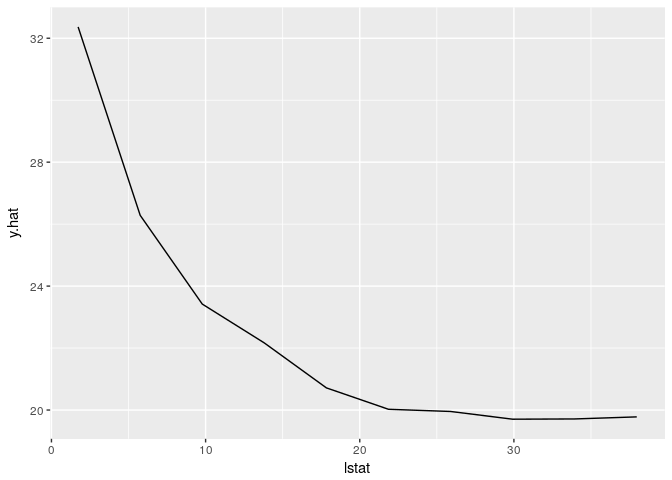
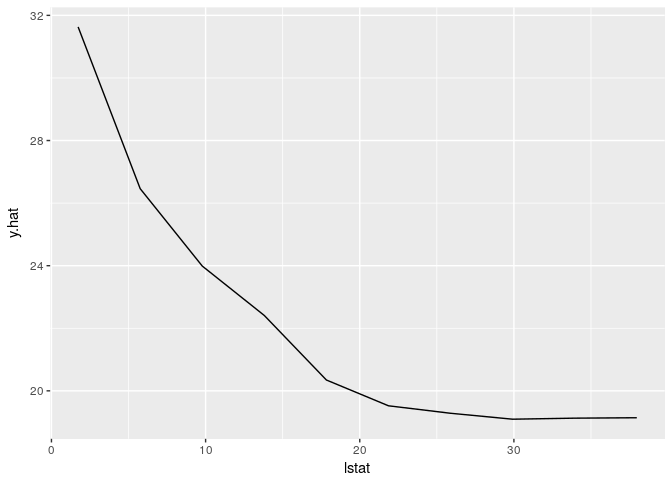
set seed

diff --git a/README.md b/README.md
@@ -56,20 +56,20 @@ imp$data()
     ## # A tibble: 14 x 3
     ##    ..feature error importance
     ##    <fct>     <dbl>      <dbl>
-    ##  1 age       1.39        1.39
-    ##  2 black     1.27        1.27
-    ##  3 chas      1.01        1.02
-    ##  4 crim      1.65        1.65
-    ##  5 dis       1.75        1.75
-    ##  6 indus     1.75        1.76
-    ##  7 lstat     4.68        4.69
-    ##  8 medv      0.997       1.00
-    ##  9 nox       1.75        1.75
-    ## 10 ptratio   1.42        1.43
-    ## 11 rad       1.08        1.08
-    ## 12 rm        3.39        3.40
-    ## 13 tax       1.33        1.33
-    ## 14 zn        1.02        1.02
+    ##  1 age       1.28        1.30
+    ##  2 black     1.24        1.25
+    ##  3 chas      1.01        1.03
+    ##  4 crim      1.65        1.67
+    ##  5 dis       1.66        1.68
+    ##  6 indus     1.47        1.49
+    ##  7 lstat     4.23        4.29
+    ##  8 medv      0.988       1.00
+    ##  9 nox       1.64        1.66
+    ## 10 ptratio   1.58        1.60
+    ## 11 rad       1.11        1.12
+    ## 12 rm        3.71        3.76
+    ## 13 tax       1.24        1.26
+    ## 14 zn        1.09        1.11
 
 ### Let's build a single tree from the randomForest predictions! (Tree surrogate)
 
@@ -107,9 +107,9 @@ lime.explain$data()
 ```
 
     ##              beta x.scaled     effect x.original feature feature.value
-    ## rm     0.50908514    6.575  3.3472348      6.575      rm      rm=6.575
-    ## lstat -0.05140837    4.980 -0.2560137       4.98   lstat    lstat=4.98
-    ## medv   0.71921815   24.000 17.2612357         24    medv       medv=24
+    ## rm     1.03669473    6.575  6.8162678      6.575      rm      rm=6.575
+    ## lstat -0.05867633    4.980 -0.2922081       4.98   lstat    lstat=4.98
+    ## medv   0.72759814   24.000 17.4623553         24    medv       medv=24
 
 ``` r
 plot(lime.explain)
@@ -127,22 +127,22 @@ shapley.explain$data()
 
     ## # A tibble: 14 x 3
     ## # Groups:   feature [?]
-    ##    feature     phi phi.var
-    ##    <fct>     <dbl>   <dbl>
-    ##  1 age     -0.113   0.495 
-    ##  2 black   -0.0753  0.216 
-    ##  3 chas    -0.0201  0.0136
-    ##  4 crim    -0.0839  1.43  
-    ##  5 dis     -0.391   1.27  
-    ##  6 indus    0.818   1.47  
-    ##  7 lstat    3.78   15.8   
-    ##  8 medv     0       0     
-    ##  9 nox     -0.183   1.88  
-    ## 10 ptratio  0.485   0.322 
-    ## 11 rad     -0.250   0.121 
-    ## 12 rm      -0.985  11.5   
-    ## 13 tax     -0.0407  0.399 
-    ## 14 zn       0.0465  0.0115
+    ##    feature      phi  phi.var
+    ##    <fct>      <dbl>    <dbl>
+    ##  1 age     -0.00607  0.0969 
+    ##  2 black    0.0974   0.102  
+    ##  3 chas    -0.00898  0.00539
+    ##  4 crim    -0.298    1.86   
+    ##  5 dis     -0.147    1.40   
+    ##  6 indus    0.634    0.724  
+    ##  7 lstat    3.12    12.7    
+    ##  8 medv     0        0      
+    ##  9 nox     -0.206    0.467  
+    ## 10 ptratio  0.553    0.698  
+    ## 11 rad     -0.156    0.0683 
+    ## 12 rm       0.706    4.05   
+    ## 13 tax     -0.111    0.378  
+    ## 14 zn       0.201    0.115
 
 ``` r
 plot(shapley.explain)
